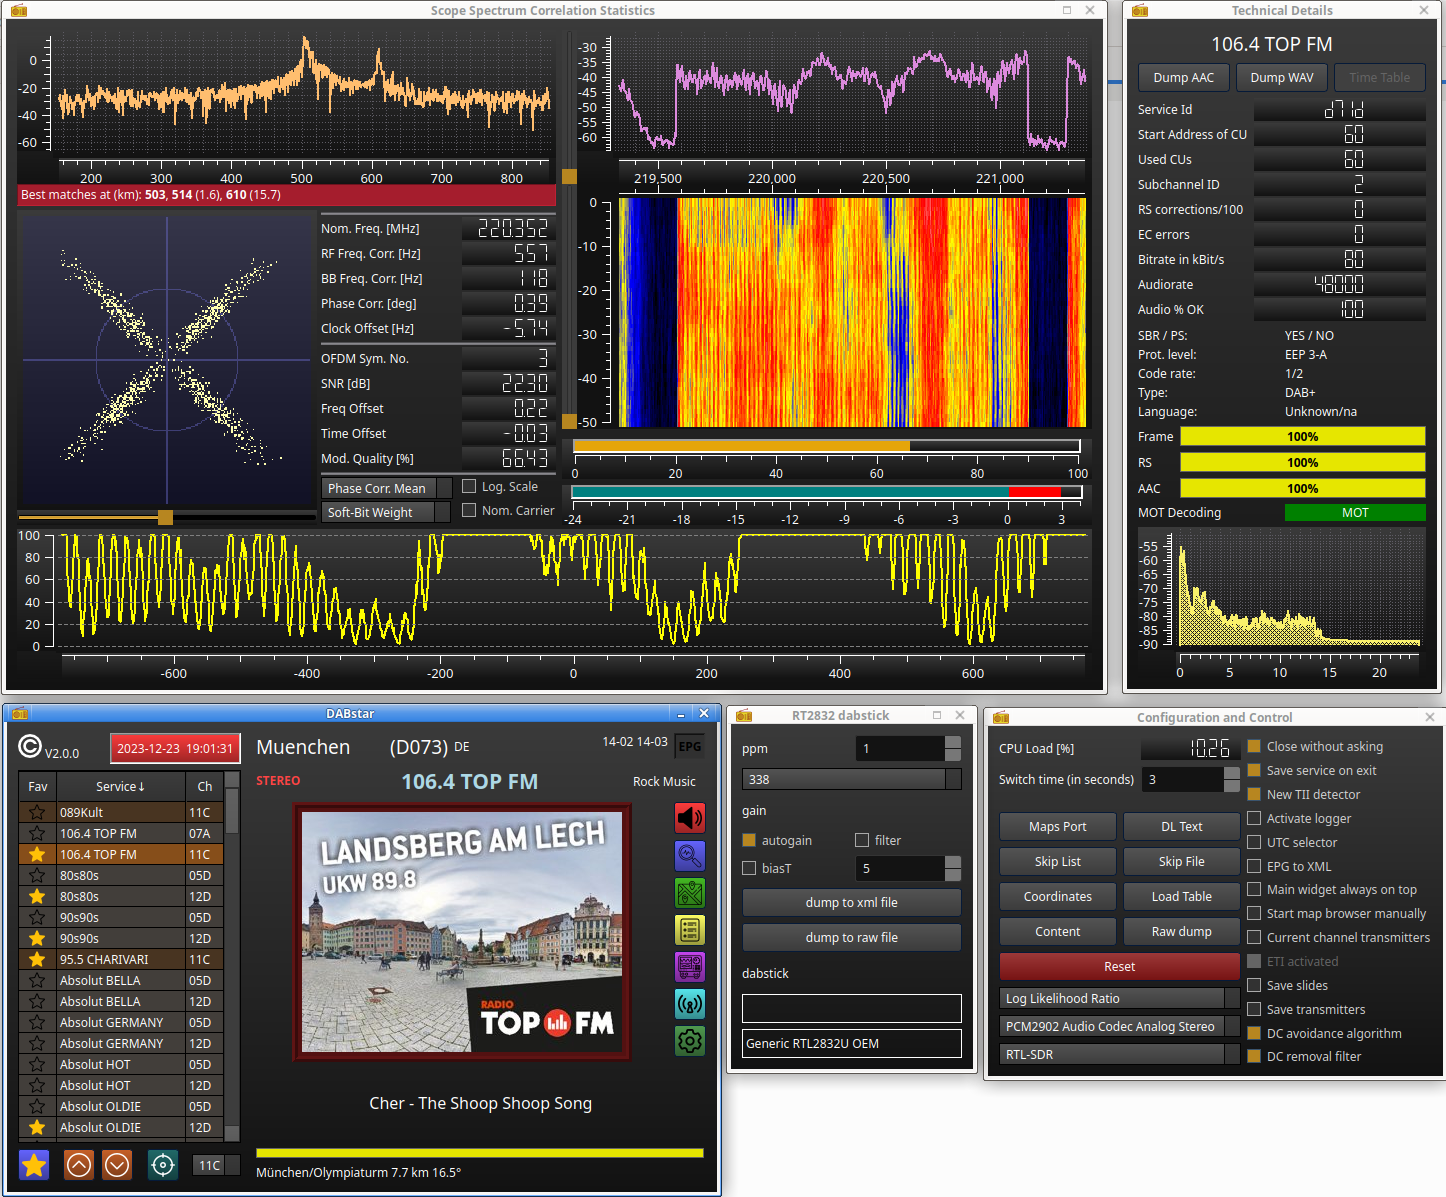
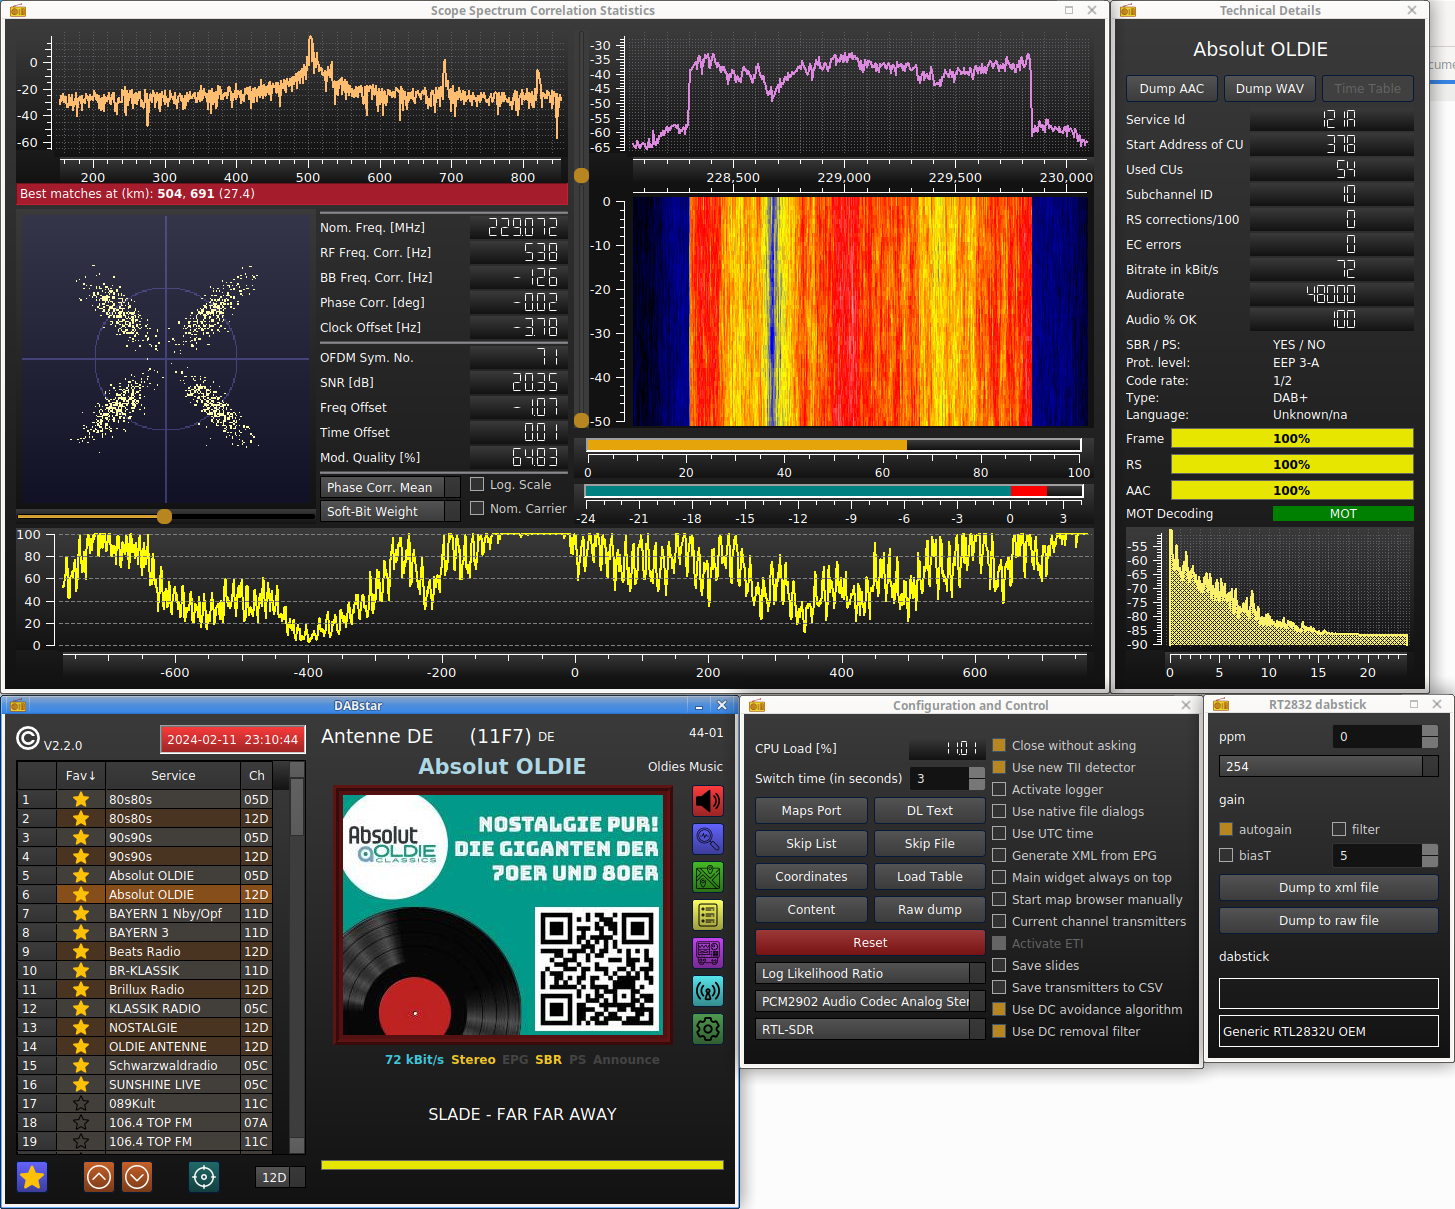
Adapt README.md to Version 2.2.0

diff --git a/README.md b/README.md
@@ -4,11 +4,10 @@
 
 ![screenshot.png](res/screenshot.png)
 
-(Picture is from version 2.0.0)
-
 ## Table of Content
 <!-- TOC -->
   * [Introduction](#introduction)
+  * [What is new in 2.2.0](#what-is-new-in-220)
   * [What is new in 2.1.0](#what-is-new-in-210)
   * [What is new in 2.0.0](#what-is-new-in-200)
     * [Buttons are icons now](#buttons-are-icons-now)
@@ -29,7 +28,7 @@
 
 ## Introduction
 
-**Version 2.1.0 is out!**
+**Version 2.2.0 is out!**
 
 Beside many small things under the hood I did major changes in the Look & Feel and mainly in the service selection.
 So I decide to make a major step to version 2 in the version numbering.
@@ -56,6 +55,21 @@ Meanwhile, I provide AppImages but still no Windows build. See [Link](https://gi
 
 As this README got meanwhile quite long, I cut off the description regarding versions until 1.7.1, but you can still read
 it here: [README.md of V1.7.1](https://github.com/tomneda/DABstar/blob/649431e0f5297a5f44cd7aab0c016370e010ed3e/README.md)
+
+## What is new in 2.2.0
+
+- A bigger fix replaying files regarding my new service list. 
+  There is still the small issue that the channel name does not (necessarily) fit to the file content.
+- There is only one file-reading dialog now. The file type selection happens in the file dialog field. 
+  It is selectable whether the QT or native file dialog should be shown.   
+- Improve error checking for file handling.
+- Refine the setting management. 
+  This causes that the setting file (in `~/.config/dabstar/`) got a new filename. 
+  So, the settings has to be put-in new.  
+  Same happens to the service-list database file, so possibly already made favorites got lost.
+  Sorry for that circumstance.
+- Small UI refinements.
+- Many small refinements under the hood.
 
 ## What is new in 2.1.0
 
